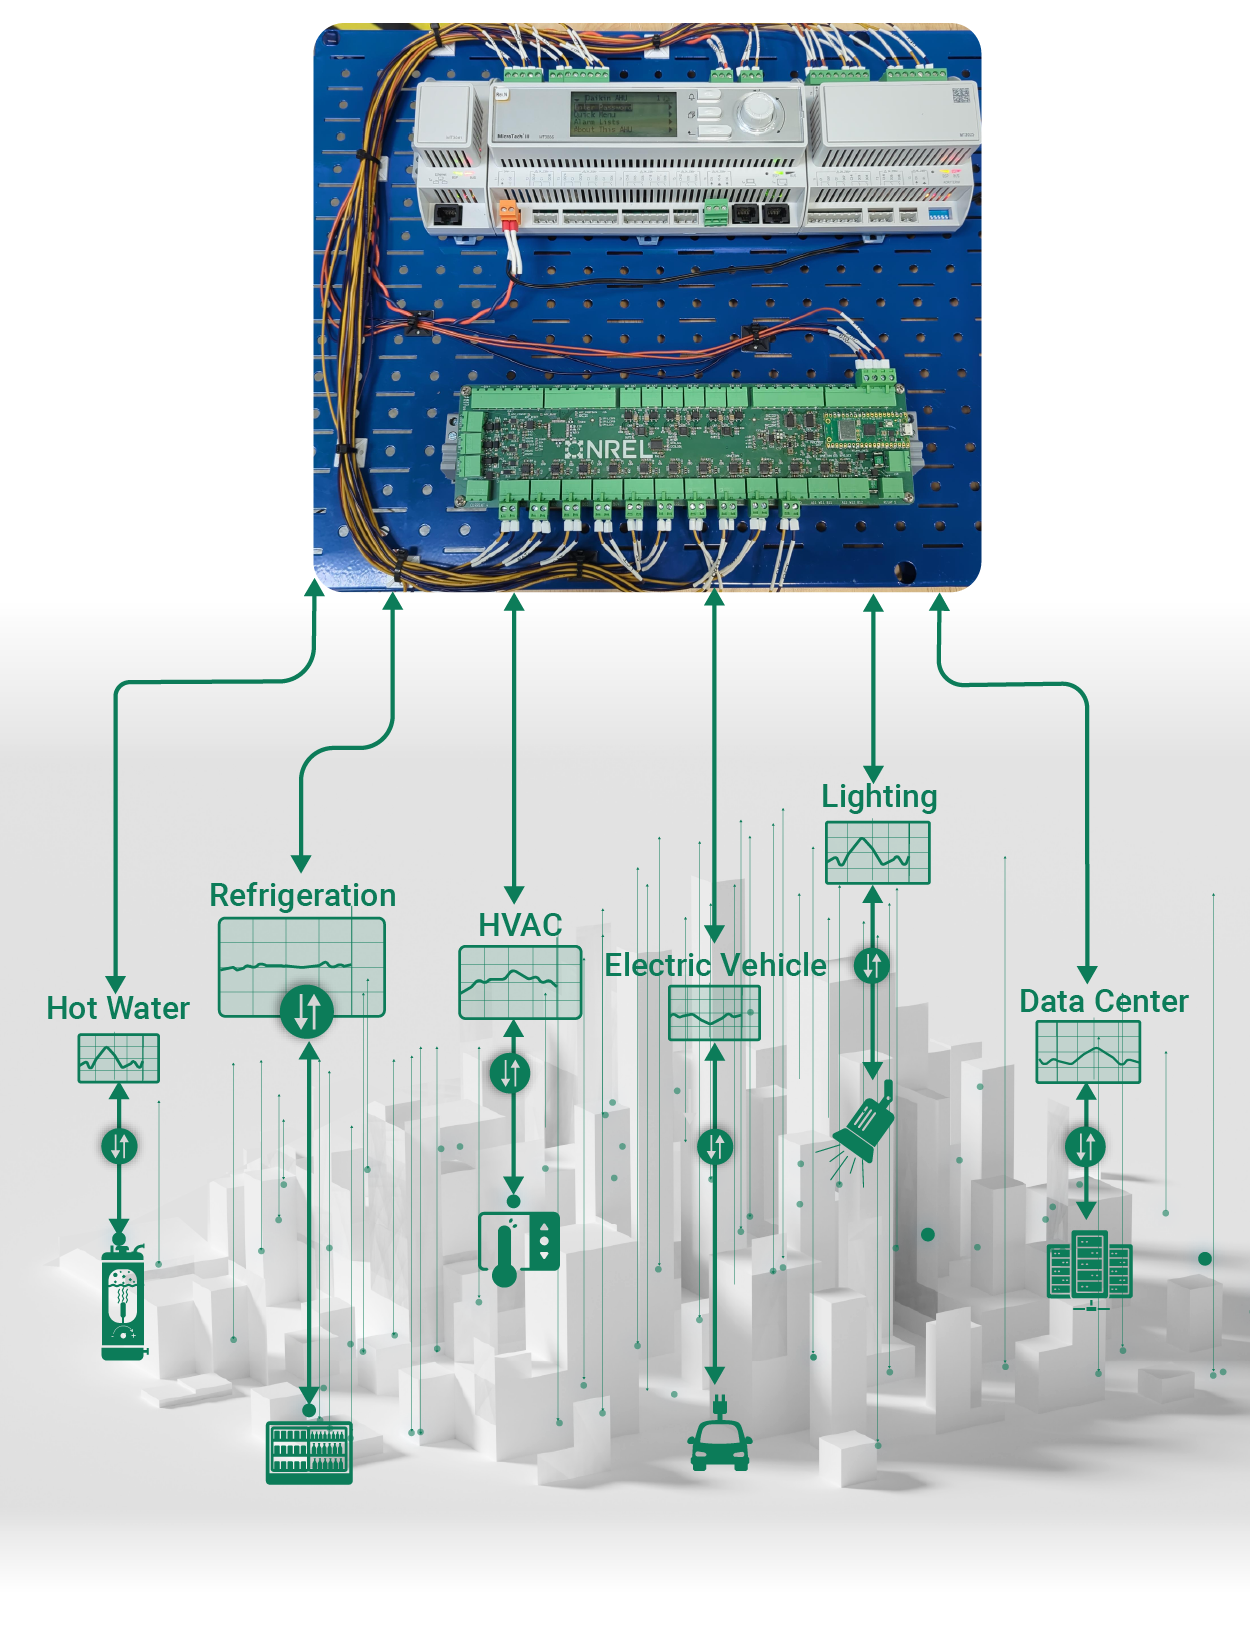
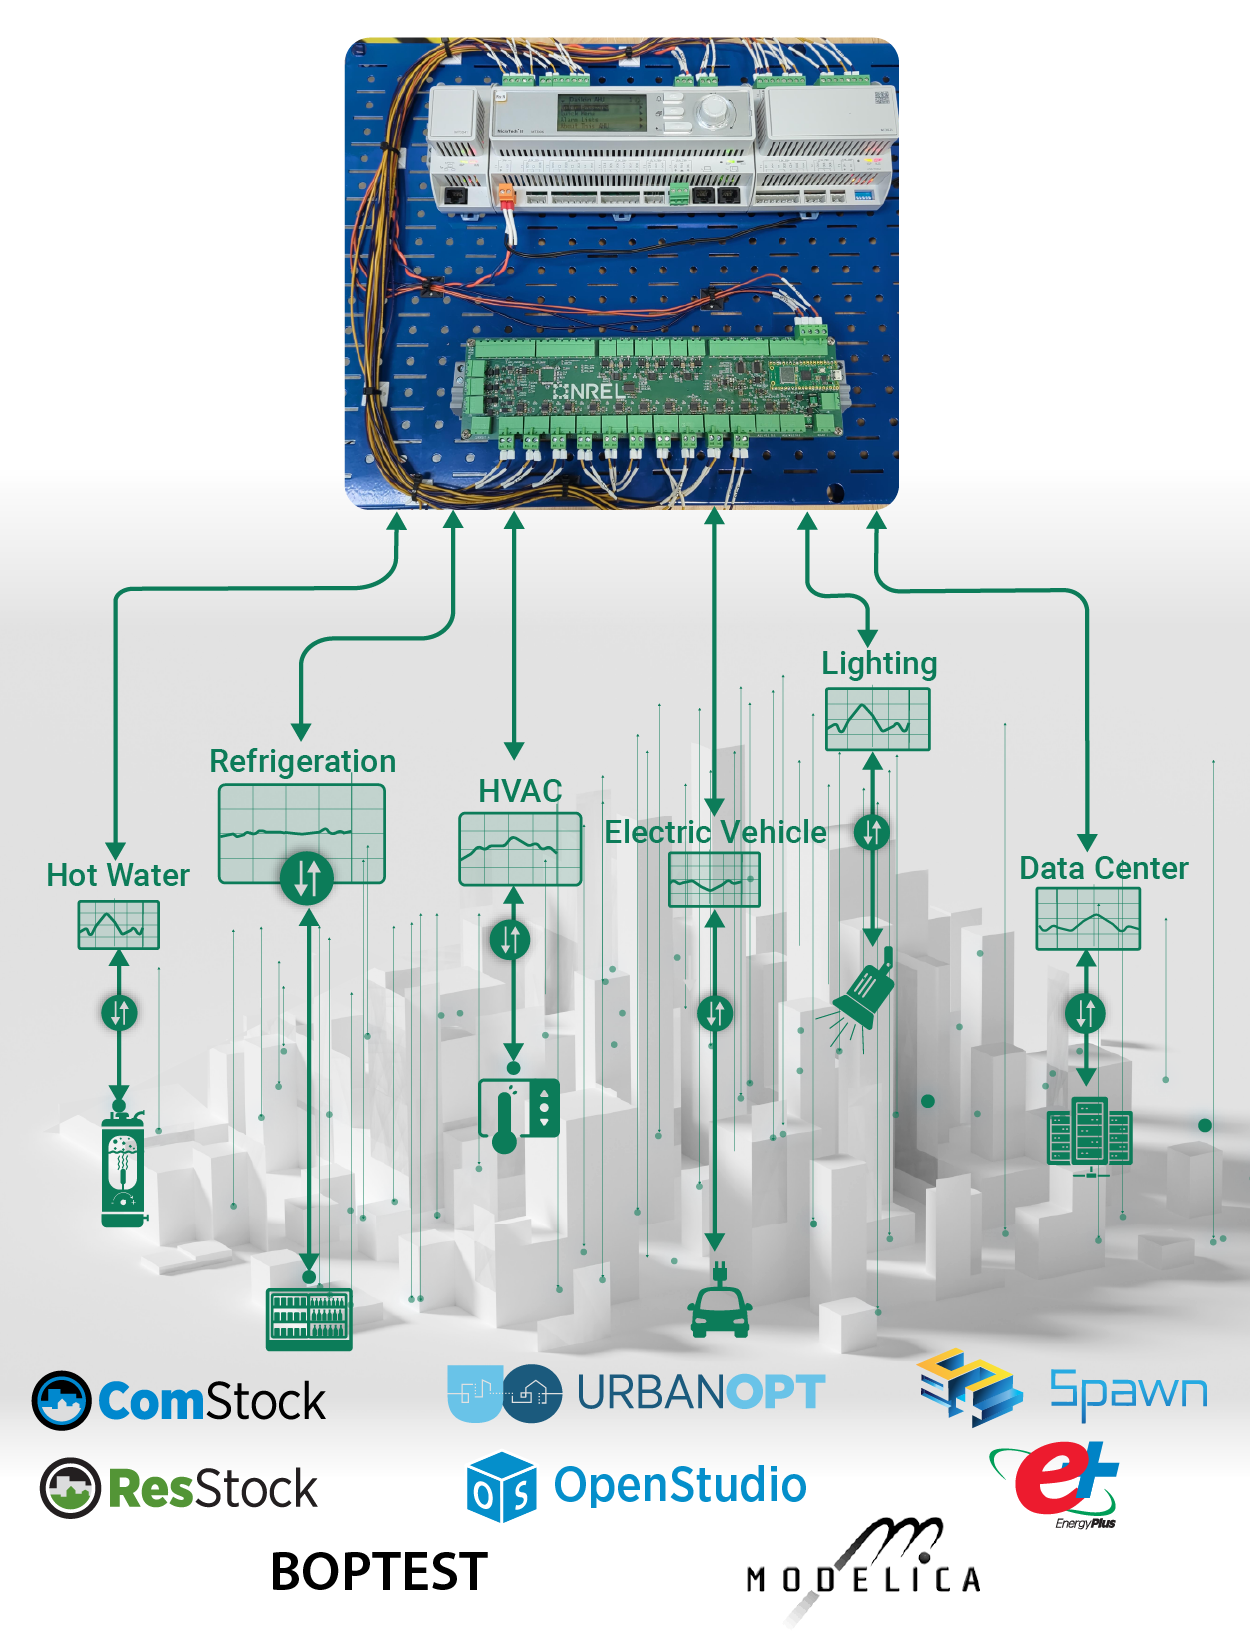
adding alt text making adjustments

diff --git a/src/pages/Home.tsx b/src/pages/Home.tsx
@@ -92,7 +92,7 @@ export default function Home() {
           >
             <img 
               src="/pacer-site/images/banner.png" 
-              alt="Banner" 
+              alt="Controller hardware connected to virtual buildings with controls for various systems like hot water, refrigeratgion, HVAC, and lighting. Then a list of software that works with PACER including ComStock, ResStock, UBANopt, OpenStudio, EnergyPlus, BOPTEST, Alfalfa, and Modelica." 
               style={{ 
                 width: '100%', 
                 height: '100%', 
@@ -138,7 +138,7 @@ export default function Home() {
         }}>
             <Typography variant="body1" paragraph>
                 <ul>
-                  <li><a href='https://github.com/NREL/alfalfa'>Alfalfa Repo on GitHub</a> </li>
+                  <li><a href='https://github.com/NREL/alfalfa'>Alfalfa Repository on GitHub</a> </li>
                   <li><a href='https://github.com/NREL/alfalfa/wiki/Related-Repos'>Alfalfa Wiki</a> </li>
                   <li><a href='https://github.com/NREL/boptest-service'>BOPTEST Service</a></li>
                 </ul>
@@ -162,7 +162,7 @@ export default function Home() {
         }}>
           <img 
             src="/pacer-site/images/timeline.png" 
-            alt="History Timeline" 
+            alt="Historical timeline showing PACER's evolution and key milestones from inception to present. 2017-2018: software start. IN2 Startup incubator (~150k); 2019: into physical lab. Commercial Building Research Infrastructure HIL capability at NREL/ESIF – RTU coordination focus2021-2022: first cybersecurity. BUILD-SOS, BTO-funded cybersecurity project 2022 : start to scale. LDRD (Connected Community Experimental Twin) project to enable equity/behind-the-meter research for NREL ARIES platform (322k);2022: NREL research infrastructure build out: Building Loads and Controls Emulation ($590k); 2022: new feature. OpenADR support for Residential Cold Climate Heat Pump Challenge; 2022-2025: Dedicated BTO funding ~$150-250k/year; 2023-2024: new feature NREL research infrastructure build out: commissioning DERMS for buildings research ($1.1M);2023-ongoing: Advanced Thermal Test and Emulation Network (ATTEN); 2023-2024: large research projects. DOD/ESTCP OpenADR on islanded microgrid ($1.8M; 2024-2026: large research projects. CESER-funded emulation effort focused on grid impacts of cyberattacks on behind the meter energy equipment (~$5M); 2025: Evolves to modular and flexible ecosystem of capabilities. support Commercial HVAC Challenge with novel HIL/CHIL capabilities; 2026: ITO $120k to advance industrial load flexibility, data center focus" 
             style={{ 
               width: '100%', 
               height: 'auto',

diff --git a/src/components/Layout.tsx b/src/components/Layout.tsx
@@ -86,13 +86,21 @@ export default function Layout() {
       alignItems: 'center', 
       flexDirection: 'column', 
       minHeight: '100vh', 
-      pt: 3, 
-      px: 2,
+      width: '100%',
       background: 'radial-gradient(ellipse at center, #025589 -50%, #ffffff 80%)'
     }}>
       <CssBaseline />
-      <AppBar position="static" sx={{ bgcolor: '#025589', borderRadius: 15, width: '100%', maxWidth: 1200 }}>
-        <Toolbar>
+      <Box sx={{ 
+        width: '100%', 
+        maxWidth: 1200, 
+        pt: 3, 
+        px: 2,
+        display: 'flex',
+        flexDirection: 'column',
+        alignItems: 'center'
+      }}>
+        <AppBar position="static" sx={{ bgcolor: '#025589', borderRadius: 15, width: '100%' }}>
+          <Toolbar>
           <Typography 
             variant="h6" 
             sx={{ flexGrow: 1, cursor: 'pointer', fontSize: '1.5rem', fontWeight: 600 }} 
@@ -130,7 +138,6 @@ export default function Layout() {
           justifyContent: 'center',
           alignItems: 'center',
           width: '100%',
-          maxWidth: 1200,
         }}
       >
         <Box sx={{ width: '100%' }}>
@@ -139,7 +146,7 @@ export default function Layout() {
       </Box>
 
       {/* Footer */}
-      <Box component="footer" sx={{ py: 2, textAlign: 'center', bgcolor: 'background.paper', width: '100%', maxWidth: 1200 }}>
+      <Box component="footer" sx={{ py: 2, textAlign: 'center', bgcolor: 'background.paper', width: '100%' }}>
         <Typography variant="body2" color="text.secondary">The National Laboratory of the Rockies is a national laboratory of the <a href="https://www.energy.gov">U.S. Department of Energy</a>, <a href="https://www.energy.gov/office-critical-minerals-and-energy-innovation">Office of Critical Minerals and Energy Innovation</a>, operated under Contract No. DE-AC36-08GO28308</Typography>
       </Box>
 
@@ -151,6 +158,7 @@ export default function Layout() {
           ))}
         </BottomNavigation>
       )}
+      </Box>
     </Box>
   )
 }
